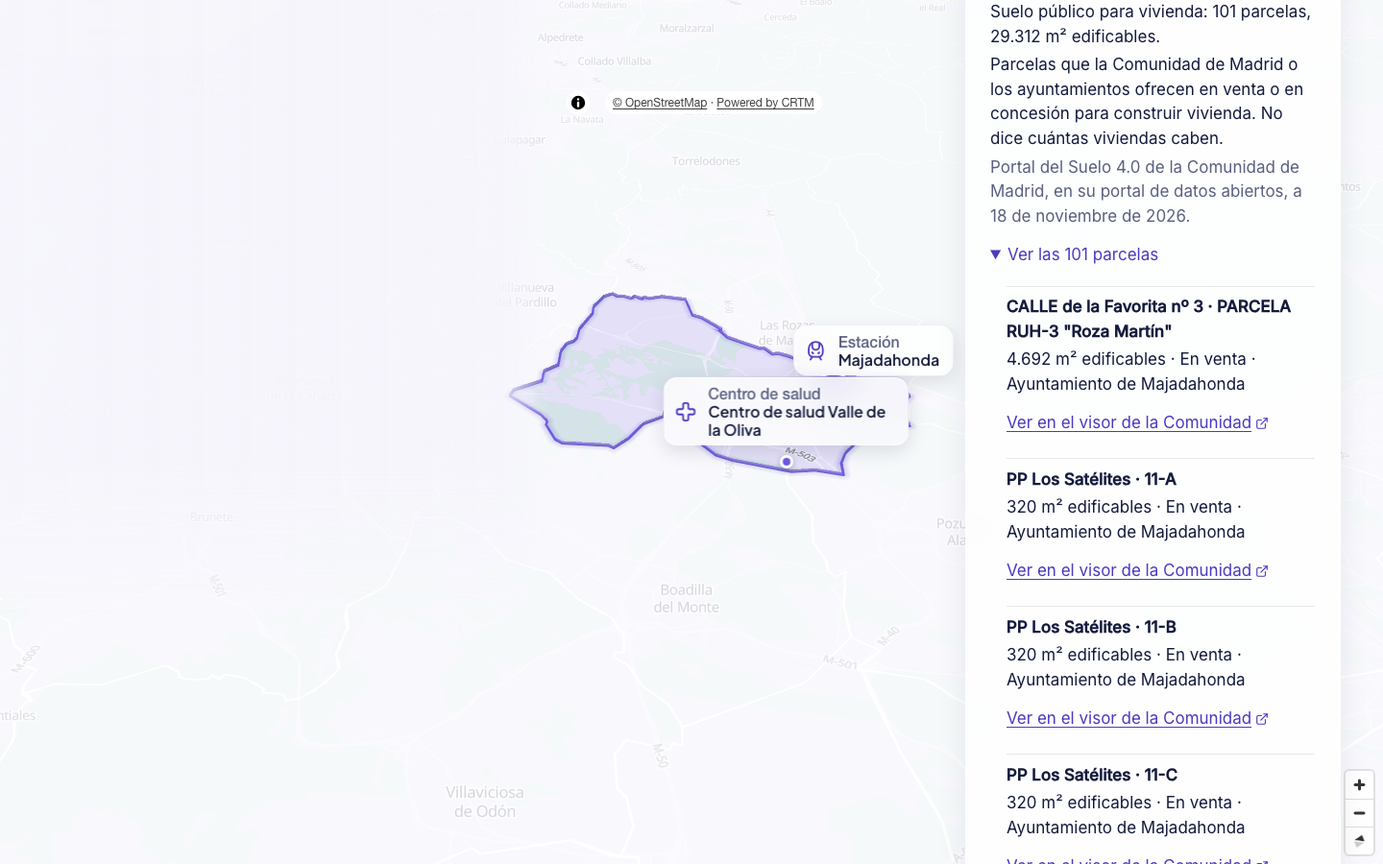
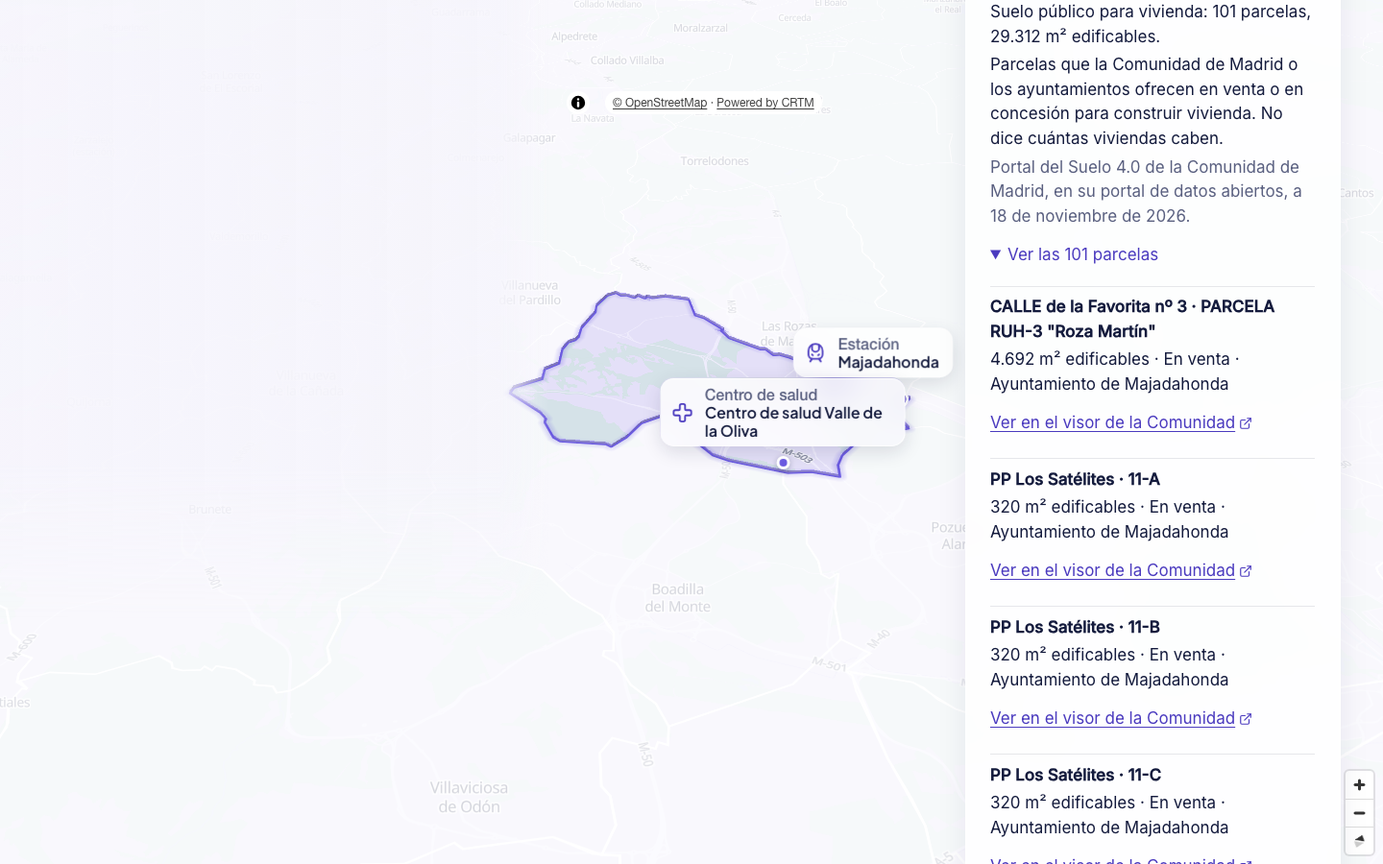
Review of #89: stricter parcel checks, no contact data in the sample, docs and the viewer link
- Pipeline (parser public_land_parcels-1.1.0): the other main uses of the file are declared
  (T, I, O, C, counted) and any other use code is quarantined, so a new code never drops a
  parcel in silence; a buildable surface with a dot («12.192») is quarantined instead of read as
  12.192 m²; a viewer link off https://idem.comunidad.madrid/ is quarantined. The real file of
  18 Nov passes as before (291 parcels, 331 feature rows).
- The test sample leaves contacto_direccion empty (names, phones and emails of people); the
  pipeline never read it.
- Web: only links to the CM viewer become links; a parcel without location or name is named by
  its reference; «Ver en el visor de la Comunidad» is inline text with its icon after it and the
  list is not indented, so it fits one 44 px line at 390 px.
- README: 36 CM datasets (53 in all) once synced; the public API routes document the feature
  and its four item fields; D-246 and the copy say all this.

Evidence on a new build: captures 56/56, check-ux-mobile at 390 px 0 and 0, axe 0.

diff --git a/apps/web/src/lib/newHousing.ts b/apps/web/src/lib/newHousing.ts
@@ -106,6 +106,7 @@ export const TEXT = {
   landArea: "{m2} m² edificables",
   landAreaMissing: "Superficie edificable sin publicar",
   landViewer: "Ver en el visor de la Comunidad",
+  landReference: "Referencia {ref}",
 } as const;
 
 /** D-246: only the codes whose meaning the Comunidad publishes (V and C); the rest come without a regime. */
@@ -247,15 +248,19 @@ function areaLines(zone: NewHousingZone, rows: readonly FeatureValueRow[]): NewH
 const parcelsInWords = (n: number) => (n === 1 ? "1 parcela" : `${count(n)} parcelas`);
 const m2 = (value: number) => count(Math.round(value));
 
+/** Only links to the Comunidad's map viewer become links (the pipeline quarantines any other, D-246). */
+export const VIEWER_PREFIX = "https://idem.comunidad.madrid/";
+
 function landParcel(item: ContextItem, i: number): LandParcel {
-  const place = [item.name, item.parcel].filter(Boolean).join(" · ") || TEXT.landViewer;
+  // Without a location or a parcel name, its reference in the portal; never the link's text
+  const place = [item.name, item.parcel].filter(Boolean).join(" · ") || TEXT.landReference.replace("{ref}", item.code ?? String(i + 1));
   return {
     key: item.code ?? String(i),
     place,
     area: item.value == null ? TEXT.landAreaMissing : TEXT.landArea.replace("{m2}", m2(item.value)),
     regime: item.regime ? (REGIMES[item.regime] ?? null) : null,
     manager: item.manager ?? null,
-    url: item.url ?? null,
+    url: item.url?.startsWith(VIEWER_PREFIX) ? item.url : null,
   };
 }
 

diff --git a/apps/web/src/lib/__tests__/newHousing.test.ts b/apps/web/src/lib/__tests__/newHousing.test.ts
@@ -203,6 +203,14 @@ describe("landLine (zona.vivienda_nueva.suelo, D-246)", () => {
     expect(line?.parcels?.items[0]?.regime).toBe("En venta");
   });
 
+  it("names a parcel without location or parcel name by its reference, and links only to the Comunidad's viewer", () => {
+    const odd = [row("28080", 100, "2026-11-18", { items: [{ code: "08000001Y", value: 60, url: "https://example.com/visor" }, { code: "08000002Y", value: 40, url: VIEWER }] })];
+    const [first, second] = landLine({ level: "municipio", code: "28080" }, odd)?.parcels?.items ?? [];
+    expect(first?.place).toBe("Referencia 08000001Y");
+    expect(first?.url).toBeNull();
+    expect(second?.url).toBe(VIEWER);
+  });
+
   it("goes last, after what is coming, and never with alarm or ranking words", () => {
     const lines = newHousingLines({ level: "distrito", code: "2807919" }, { ...rows, planVive: planViveDistricts, land });
     expect(lines.at(-1)?.key).toBe("land");

diff --git a/apps/web/src/components/zone/NewHousing.module.css b/apps/web/src/components/zone/NewHousing.module.css
@@ -48,11 +48,12 @@
   cursor: pointer;
 }
 
+/* Not indented: the whole width for «Ver en el visor de la Comunidad» on a phone */
 .parcels ul {
   display: grid;
   gap: var(--space-3);
   margin: 0;
-  padding: 0 0 0 var(--space-4);
+  padding: 0;
   list-style: none;
 }
 
@@ -67,11 +68,16 @@
   font-weight: 600;
 }
 
+/* Inline text with its icon after the last word (never apart if it wraps); the padding makes
+   one line a 44 px target */
 .parcels a {
-  display: inline-flex;
-  gap: var(--space-1);
-  align-items: center;
+  display: inline-block;
   justify-self: start;
-  min-height: var(--target);
+  padding-block: calc((var(--target) - 1.5em) / 2);
   color: var(--violet-strong);
+}
+
+.parcels a svg {
+  margin-left: var(--space-1);
+  vertical-align: -2px;
 }

diff --git a/packages/contracts/src/hi_contracts/catalog/pipeline.py b/packages/contracts/src/hi_contracts/catalog/pipeline.py
@@ -842,7 +842,9 @@ class PublicLandParcelsPipeline(BaseModel):
     public parcel offered by the CM or a member Ayuntamiento, with its municipio code inside the
     province, its main use, its buildable surface and the link to the CM map viewer.
 
-    Only the parcels whose main use is in `uses` are kept. Each one becomes an observation of
+    Only the parcels whose main use is in `uses` are kept; those of `other_uses` are counted.
+    A use in neither is quarantined, so a new code never makes a parcel vanish in silence. Each
+    kept parcel becomes an observation of
     `metric_id` in its municipio (`28` + the 3-digit code; the name must be the geography's), its
     buildable m² as the value. The parcels of `split_municipio_ine` (Madrid) are also placed in
     their district and barrio: the CSV has no coordinates, so a versioned table of points inside
@@ -853,7 +855,10 @@ class PublicLandParcelsPipeline(BaseModel):
     Codes are shown only with a meaning the CM publishes: `regimes` and `urbanization` map
     those codes to a slug. The codes the CM uses without publishing what they mean are declared
     in `undocumented_*` and kept without a label; any other code is quarantined, so a new one is
-    read by a person before it is shown.
+    read by a person before it is shown. The viewer link must start with `viewer_prefix` (the
+    CM's map viewer) or the parcel is quarantined: the web turns it into a link. The buildable
+    surface uses a decimal comma; a dot (a thousands separator or a decimal point) is
+    quarantined, never read as another number.
     """
 
     model_config = ConfigDict(extra="forbid")
@@ -865,6 +870,8 @@ class PublicLandParcelsPipeline(BaseModel):
     metric_id: str = Field(pattern=METRIC_ID_PATTERN)
     province_ine: str = Field(default="28", pattern=r"^\d{2}$")
     uses: list[str] = Field(min_length=1, description="uso_principal_codigo values kept")
+    other_uses: list[str] = Field(default_factory=list[str], description="known, not kept")
+    viewer_prefix: str = Field(pattern=r"^https://[a-z0-9.\-]+/$")
     split_municipio_ine: str = Field(pattern=r"^28\d{3}$")
     points: str = Field(pattern=r"^[a-z0-9_]+\.yaml$", description="file in data/catalog/manual")
     regimes: dict[str, Annotated[str, Field(pattern=CODE_SLUG)]] = Field(min_length=1)
@@ -880,11 +887,12 @@ class PublicLandParcelsPipeline(BaseModel):
             msg = f"{self.dataset_id}: max_rows must be >= min_rows"
             raise ValueError(msg)
         for known, unknown in (
+            (set(self.uses), self.other_uses),
             (self.regimes, self.undocumented_regimes),
             (self.urbanization, self.undocumented_urbanization),
         ):
             if set(known) & set(unknown):
-                msg = f"{self.dataset_id}: a code is either documented or not"
+                msg = f"{self.dataset_id}: a code is declared once (kept or not, explained or not)"
                 raise ValueError(msg)
         return self
 

diff --git a/services/ingestion/src/hi_ingestion/pipelines/zone_context/parcels.py b/services/ingestion/src/hi_ingestion/pipelines/zone_context/parcels.py
@@ -90,6 +90,25 @@ def municipio_code(
     return code
 
 
+def viewer_url(row: Mapping[str, Any], spec: PublicLandParcelsPipeline) -> str:
+    """The parcel in the CM's map viewer, or "" without one; any other site is quarantined (the
+    web makes it a link)."""
+    url = clean(row.get(VIEWER))
+    if url and not url.startswith(spec.viewer_prefix):
+        msg = f"viewer link {url[:60]!r} is not on {spec.viewer_prefix}"
+        raise RowError(msg)
+    return url
+
+
+def buildable_m2(raw: str, spec: PublicLandParcelsPipeline) -> tuple[float | None, str | None]:
+    """«13475,8» -> 13475.8 (decimal comma). «12.192» is quarantined: a thousands dot would be
+    read as 12.192 m², and a decimal point cannot be told from it."""
+    if "." in raw:
+        msg = f"buildable surface {raw!r} has a dot (thousands or decimal point): read it"
+        raise RowError(msg)
+    return parse_value(raw, MISSING, spec.csv.decimal)
+
+
 def _dims(row: Mapping[str, Any], spec: PublicLandParcelsPipeline) -> dict[str, str]:
     ref = clean(row.get(REF))
     if not ref:
@@ -103,7 +122,7 @@ def _dims(row: Mapping[str, Any], spec: PublicLandParcelsPipeline) -> dict[str, 
         "parcel": clean(row.get(PARCEL)),
         "regime": regime,
         "manager": clean(row.get(MANAGER)),
-        "url": clean(row.get(VIEWER)),
+        "url": viewer_url(row, spec),
         "stage": stage,
     }
     return {k: v for k, v in dims.items() if v}  # a dimension the parcel does not have is absent
@@ -135,7 +154,7 @@ def _parcel_rows(
     code = municipio_code(row, spec, names)
     dims = _dims(row, spec)
     raw = clean(row.get(BUILDABLE))
-    value, null_reason = parse_value(raw, MISSING, spec.csv.decimal)
+    value, null_reason = buildable_m2(raw, spec)
     return [
         observation(
             metric_id=spec.metric_id,
@@ -164,11 +183,18 @@ def normalize_parcels(
     observed: date,
 ) -> ParcelObservations:
     """`names`: INE code -> the geography's name. `placed`: Madrid's parcels by reference.
-    Parcels of other uses are counted, never quarantined; a repeated reference is."""
+    Parcels of the other declared uses are counted; an undeclared use and a repeated reference
+    are quarantined."""
     records: list[dict[str, Any]] = frame.to_dict("records")  # pyright: ignore[reportAssignmentType]
+    known = {*spec.uses, *spec.other_uses}
     kept = [(i, r) for i, r in enumerate(records) if clean(r.get(USE)) in spec.uses]
     rows: list[dict[str, Any]] = []
-    bad: list[dict[str, Any]] = []
+    bad: list[dict[str, Any]] = [
+        {"source_row": i, "reason": f"use code {clean(r.get(USE))!r} is not declared", "raw": ref}
+        for i, r in enumerate(records)
+        if clean(r.get(USE)) not in known
+        for ref in [clean(r.get(REF))]
+    ]
     seen: set[str] = set()
     for index, row in kept:
         try:

diff --git a/tests/unit/pipelines/test_portal_suelo.py b/tests/unit/pipelines/test_portal_suelo.py
@@ -18,6 +18,8 @@ SPEC = PublicLandParcelsPipeline(
     dataset_id="cm_parcelas_portal_suelo",
     metric_id="suelo_publico_parcela_m2_edificable",
     uses=["R"],
+    other_uses=["T", "I", "O", "C"],
+    viewer_prefix="https://idem.comunidad.madrid/",
     split_municipio_ine="28079",
     points="portal_suelo_madrid_puntos.yaml",
     regimes={"V": "venta", "C": "concesion"},
@@ -90,6 +92,35 @@ def test_texts_are_one_line_and_codes_are_labelled_only_when_the_cm_says_what_th
     assert "regime" not in _dims(result, "3") and "stage" not in _dims(result, "3")
 
 
+def test_an_undeclared_use_is_quarantined_never_dropped_in_silence() -> None:
+    result = _run(
+        _parcel("1"), _parcel("2", uso_principal_codigo="T"), _parcel("3", uso_principal_codigo="Z")
+    )
+    assert list(result.obs.frame["territory_code"]) == ["28080"]
+    assert result.obs.quarantine["reason"].tolist() == ["use code 'Z' is not declared"]
+    assert result.obs.quarantine["raw"].tolist() == ["3"]
+
+
+def test_a_dot_in_the_buildable_surface_is_quarantined_never_another_number() -> None:
+    """«12.192» (thousands dot) would read as 12.192 m²; the file uses a decimal comma."""
+    result = _run(
+        _parcel("1", superficie_edificable="12.192"), _parcel("2", superficie_edificable="12192")
+    )
+    assert result.obs.frame["value"].tolist() == [12192.0]
+    assert "has a dot" in result.obs.quarantine["reason"].iloc[0]
+
+
+def test_only_links_to_the_cm_viewer_are_kept() -> None:
+    """The web makes a link of it: another site is quarantined; no link is no dimension."""
+    result = _run(
+        _parcel("1", url_visor="https://example.com/idem.comunidad.madrid/"),
+        _parcel("2", url_visor="javascript:alert(1)"),
+        _parcel("3", url_visor=""),
+    )
+    assert len(result.obs.quarantine) == 2
+    assert "url" not in _dims(result, "3")
+
+
 def test_a_code_nobody_declared_is_quarantined() -> None:
     result = _run(_parcel("1", regimen_codigo="X"))
     assert result.obs.frame.empty
@@ -156,6 +187,8 @@ def test_a_code_is_documented_or_not() -> None:
         PublicLandParcelsPipeline.model_validate(
             SPEC.model_dump() | {"undocumented_regimes": ["V"]}
         )
+    with pytest.raises(ValidationError):
+        PublicLandParcelsPipeline.model_validate(SPEC.model_dump() | {"other_uses": ["R", "T"]})
 
 
 def _points(**changes: Any) -> dict[str, Any]:

diff --git a/services/ingestion/src/hi_ingestion/pipelines/zone_context/run.py b/services/ingestion/src/hi_ingestion/pipelines/zone_context/run.py
@@ -51,7 +51,8 @@ from hi_ingestion.pipelines.zone_context.parcels import (
 )
 
 PARSER_VERSION = "zone_context-1.1.0"
-PARCELS_PARSER_VERSION = "public_land_parcels-1.0.0"  # D-246
+# D-246; 1.1: undeclared uses, links off the CM viewer and dotted surfaces are quarantined
+PARCELS_PARSER_VERSION = "public_land_parcels-1.1.0"
 MANUAL_DIR = REPO_ROOT / "data" / "catalog" / "manual"
 
 

diff --git a/docs/04_technical_architecture/31_public_api_routes.md b/docs/04_technical_architecture/31_public_api_routes.md
@@ -33,7 +33,7 @@ Contratos v2 del 11 nov 2026 (D-207, línea A), del producto «Vida Fácil». Lo
 | `POST /api/v1/search/barrios` | `{scenario, distrito}`: el mismo `ScenarioState` y el código INE de un distrito de Madrid (`28079` + 2 cifras; otro formato → 422, un distrito que no existe → 404 `NOT_FOUND`) | `BarrioSearchResponse` | **Desde el 12 nov (D-232, `fit-0.7`).** Los barrios de ese distrito (de 3 a 9) con el mismo motor que `/search`: mismas condiciones, % de encaje, hechos, `near_misses` y Reality Check, con barrios como zonas y `distrito` con el `ZoneRef` del distrito. Cada barrio trae sus minutos a pie (mediana de sus calles), su alquiler (los códigos postales de sus lugares, confidence 0,6 como máximo y 0,3 con menos de 5 lugares con alquiler publicado; sin él, `UNKNOWN` con el motivo en llano) y su trayecto (la mediana de sus secciones). Si un barrio no tiene trayecto propio usa el del distrito con confidence × 0,8 como preferencia, el hecho lo dice («… (trayecto medido para todo el distrito, no solo para este barrio)») y `warnings` lo cuenta; con un límite de minutos esa condición sale `UNKNOWN`. `gap_highlights` va vacío: «Qué falta» sigue por distrito. Ejemplo real: `data/fixtures/contracts/barrio_search_result.san_blas.fixture.json` |
 | `GET /api/v1/datasets?cm_only=true` | `cm_only` (opcional) | `DatasetListResponse`: `total`, `cm_open_data_count` y los `DatasetRef` con versión | **Funciona desde el 11 nov**. Lista los datasets con una versión válida (QA superado): hoy 22, de los que 21 son CM. **Desde el 12 nov cada `DatasetRef` (también en `/gaps` y `/search`) trae `attribution_text`**: el texto que pide la licencia de su fuente (catálogo de fuentes), con la fecha de actualización en el Ministerio de Sanidad y, si el dataset tiene lugares geocodificados (D-216), la cita de CartoCiudad |
 | `GET /api/v1/geo/admin-units?level=&parent=` | `level` · `parent` (opcional): `admin_unit_id` del padre directo (`?level=distrito&parent=ES.28.MUN.28079` → los 21 distritos de Madrid) · `simplify_m` | geometrías GeoJSON | Existe. **Desde el 11 nov,** `properties.name` viene legible («Las Rozas de Madrid»), como `ZoneRef.name`, y se puede filtrar por padre. El padre de una sección es su barrio o, si no tiene, su distrito. Un padre sin hijos devuelve una lista vacía con aviso en `warnings` |
-| `GET /api/v1/features`, `GET /api/v1/features/{id}/values?level=` | — | catálogo y valores de features | Existe. **Seguridad como contexto (DATA-020, D-226):** `seguridad_percibida_noche` y `seguridad_percibida_dia` traen la valoración de 0 a 10 que hacen los vecinos de la seguridad de su barrio (Encuesta de calidad de vida del Ayuntamiento, 2025, unas 400 personas por distrito). Con `level=distrito` salen los 21 distritos (confidence 0,9); con `level=municipio`, Madrid (28079, la referencia: 6,4 de noche y 7,8 de día) y los otros 178 municipios con `value: null` y `null_reason: SOURCE_MISSING`. Tome el `period_start` más reciente. No puntúan ni entran en «Qué falta». Se muestran como «así valoran sus vecinos la seguridad de su barrio», con la media de Madrid, el año y la fuente (`ayto_panel_indicadores_distritos_barrios`), sin colores de alarma ni etiquetas. **Vivienda nueva y lo que viene (D-241, aditivo):** cinco features de contexto que no puntúan, y un campo opcional `detail` en las filas que lo guardan (las demás no lo traen): `compraventas_obra_nueva_pct` (municipio; `detail`: `numerator` y `denominator`, las compraventas nuevas y todas de los 4 últimos trimestres, `period_end` y `provisional`), `valor_tasado_vivienda_nueva_m2` y `valor_tasado_vivienda_usada_m2` (municipio), `plan_vive_viviendas` (municipio y distrito; `detail.items`: cada entrada del Plan Vive con `name` = su ubicación, `stage` = su fase tal como la escribe la página, `value` = viviendas y, si la hay, `note`) y `ambitos_residenciales_en_desarrollo` (distrito; `detail.items`: cada ámbito con `code`, `name`, `stage` = `obras`, `tramitacion` o `sin_empezar` y `value` = m²). Una zona sin entradas tiene `value: 0` e `items: []`: es un 0 confirmado, no un hueco **Entorno (D-237):** `pct_calle_ruido_dia` y `pct_calle_ruido_noche` (% de calle residencial por encima de 65 dB Ld y 55 dB Ln, leída cada 10 m; solo Madrid capital por `municipio`, `distrito` y `barrio`, el resto `SOURCE_NO_COVERAGE`), `no2_media_anual` (µg/m³ de 2025; cada fila trae `detail` con `station`, `station_code`, `own`, `distance_km` y `traffic`, en el mismo `FeatureValueDetail` que D-241) y `min_a_pie_aparcamiento_publico` (minutos). No puntúan |
+| `GET /api/v1/features`, `GET /api/v1/features/{id}/values?level=` | — | catálogo y valores de features | Existe. **Seguridad como contexto (DATA-020, D-226):** `seguridad_percibida_noche` y `seguridad_percibida_dia` traen la valoración de 0 a 10 que hacen los vecinos de la seguridad de su barrio (Encuesta de calidad de vida del Ayuntamiento, 2025, unas 400 personas por distrito). Con `level=distrito` salen los 21 distritos (confidence 0,9); con `level=municipio`, Madrid (28079, la referencia: 6,4 de noche y 7,8 de día) y los otros 178 municipios con `value: null` y `null_reason: SOURCE_MISSING`. Tome el `period_start` más reciente. No puntúan ni entran en «Qué falta». Se muestran como «así valoran sus vecinos la seguridad de su barrio», con la media de Madrid, el año y la fuente (`ayto_panel_indicadores_distritos_barrios`), sin colores de alarma ni etiquetas. **Vivienda nueva y lo que viene (D-241, aditivo):** cinco features de contexto que no puntúan, y un campo opcional `detail` en las filas que lo guardan (las demás no lo traen): `compraventas_obra_nueva_pct` (municipio; `detail`: `numerator` y `denominator`, las compraventas nuevas y todas de los 4 últimos trimestres, `period_end` y `provisional`), `valor_tasado_vivienda_nueva_m2` y `valor_tasado_vivienda_usada_m2` (municipio), `plan_vive_viviendas` (municipio y distrito; `detail.items`: cada entrada del Plan Vive con `name` = su ubicación, `stage` = su fase tal como la escribe la página, `value` = viviendas y, si la hay, `note`) y `ambitos_residenciales_en_desarrollo` (distrito; `detail.items`: cada ámbito con `code`, `name`, `stage` = `obras`, `tramitacion` o `sin_empezar` y `value` = m²). Una zona sin entradas tiene `value: 0` e `items: []`: es un 0 confirmado, no un hueco. **Suelo público para vivienda (D-246, aditivo):** `suelo_publico_vivienda_m2` (`municipio`, y en Madrid capital `distrito` y `barrio`): el valor es la suma de los m² edificables de las parcelas residenciales que ofrece el Portal del Suelo 4.0 de la CM, y `detail.items` son esas parcelas, de mayor a menor (su número es el de parcelas), con `code` (referencia del portal), `name` (localización), `stage` (`urbanizado` o `sin_urbanizar`; ausente si la CM no explica el código), `value` (m² edificables; `null` si no se publican) y cuatro campos que solo traen ellas: `parcel` (la parcela como la nombra el portal), `regime` (`venta` o `concesion`; ausente si la CM no explica el código), `manager` (quién la ofrece) y `url` (la parcela en el visor de la CM, siempre bajo `https://idem.comunidad.madrid/`). Si una parcela no publica su superficie, el valor de la zona es `null` (`UNKNOWN`), nunca una suma más corta; una zona sin parcelas tiene `value: 0` e `items: []`. Los m² no se pasan a viviendas. No puntúa **Entorno (D-237):** `pct_calle_ruido_dia` y `pct_calle_ruido_noche` (% de calle residencial por encima de 65 dB Ld y 55 dB Ln, leída cada 10 m; solo Madrid capital por `municipio`, `distrito` y `barrio`, el resto `SOURCE_NO_COVERAGE`), `no2_media_anual` (µg/m³ de 2025; cada fila trae `detail` con `station`, `station_code`, `own`, `distance_km` y `traffic`, en el mismo `FeatureValueDetail` que D-241) y `min_a_pie_aparcamiento_publico` (minutos). No puntúan |
 | `GET /api/v1/places?category=&admin_unit_id=&subcategory=` | `category` (obligatoria; desde el 12 nov admite varias, separadas por comas o repetidas: `?category=education,health,pharmacy`, una sola petición por vista de zona; una desconocida → 422) · `admin_unit_id` (opcional): un municipio, distrito o sección (`ES.28.DIS.2807905`) · `subcategory` (opcional, repetible: `?subcategory=metro&subcategory=cercanias`; algunas subcategorías llevan comas, por eso no se separan por comas) | equipamientos como puntos GeoJSON | **Filtros desde el 11 nov.** Un lugar está en la zona en la que lo cuentan los features: su municipio, o el distrito o la sección de la sección censal en la que cae. Barrio u otro nivel → 422 `OUT_OF_COVERAGE`; unidad desconocida → 404. **Paginada:** 5.000 lugares por página (unos 1,4 MB; Vercel responde 4,5 MB como máximo), con `?page=` (desde 1) y `data.total`, `data.page` y `data.pages`. Si quedan páginas, `warnings` dice cómo pedir la siguiente o filtrar; una página fuera de rango → 422. Hoy solo transporte (14.982) pasa de una página; la web debería pedirlo siempre filtrado. **Contrato `places-1` desde el 12 nov** (`PlacesResponse`, `data/schemas/api/places_response.schema.json`, D-216): cada punto trae `ownership` (`publica`, `concertada` o `privada`, solo en centros educativos), `gap_rows` (filas de la lista de lo que falta que lo cuentan, con los filtros del catálogo), `capacity` (`{value, unit, dataset_id}` cuando la fuente la publica por centro; si no, `null`), `coordinates` (`source` o `geocoded`) y `confidence`. Las farmacias son `category=pharmacy`, ya no `health`. **Hospitales con nombre y camas (D-218, aditivo):** los hospitales cruzados con el Catálogo Nacional de Hospitales traen su nombre institucional en `name` y en `capacity` las camas instaladas (`unit: "camas instaladas"`, `dataset_id: ms_catalogo_nacional_hospitales`) más dos campos opcionales: `dependency` (`publica` o `privada`, del registro de la CM; las mutuas cuentan como privadas) y `kind` (el tipo del registro, p. ej. «Hospital general»). Los que no se cruzan conservan «Hospital general (Municipio)» y `capacity: null`. Los centros de salud y consultorios cruzados con el Catálogo de Centros de Atención Primaria traen su nombre («Centro de salud Las Calesas», «Consultorio local La Acebeda»); sin capacidad, porque nadie la publica por centro. Ejemplo: `data/fixtures/contracts/places.hospitales_madrid.fixture.json` **Aparcamientos (D-237, aditivo):** `category=other` con las subcategorías «Aparcamiento disuasorio», «Aparcamiento público», «Aparcamiento mixto» y «Aparcamiento para residentes». Los disuasorios del CRTM traen sus plazas en `capacity` (`unit: "plazas"`) y `access_fee` (`free`, `paid` o `mixed`). En `other` están también las estaciones de calidad del aire («Estación de calidad del aire»): pídase siempre con `subcategory` |
 
 ## Reglas que la web puede dar por hechas

diff --git a/docs/00_index/01_decisions_log.md b/docs/00_index/01_decisions_log.md
@@ -2052,11 +2052,11 @@ Idea de producto de Mariano, aprobada por él: además de decir **dónde vivir**
    - `clase_codigo`: **URB** «Suelo urbano»; **SEC** «Suelo urbanizable sectorizado». No se usa.
    - `urbanizacion_codigo`: **U** «Urbanizado»; **P** «Pendiente urbanización / no urbanizado». Una parcela trae «p» en minúscula, sin descripción: no se etiqueta. Va en la API (`stage`), no en pantalla.
    - `uso_principal_codigo`: **R** «Residencial» (también T Terciario, I Industrial, C Comercial, O Otros).
-   El pipeline declara los códigos explicados (`regimes`, `urbanization`) y los que la Comunidad usa sin explicar (`undocumented_*`). Cualquier otro código va a cuarentena y bloquea la carga: un código nuevo lo lee una persona antes de enseñarse.
+   El pipeline declara los códigos explicados (`regimes`, `urbanization`), los que la Comunidad usa sin explicar (`undocumented_*`) y los usos que no se cargan (`other_uses`: T, I, O y C). Cualquier otro código, también de uso, va a cuarentena y bloquea la carga: un código nuevo lo lee una persona antes de enseñarse, y ninguna parcela desaparece sin aviso. También van a cuarentena un enlace al visor que no empiece por `https://idem.comunidad.madrid/` (la web lo convierte en enlace, y además lo vuelve a comprobar) y una superficie con punto («12.192»): el fichero usa coma decimal, y un punto de miles se leería como 12,192 m². La muestra de los tests deja vacía la columna `contacto_direccion` (nombres, teléfonos y correos de personas), que el pipeline no lee.
 4. **Madrid capital por distrito y barrio.** El CSV no trae coordenadas. Se usa la geometría de la propia capa de la Comunidad (preferida a las coordenadas del Catastro por referencia catastral, que no hizo falta pedir): `scripts/portal_suelo_points.py` lee el WFS una vez y guarda, para cada parcela de Madrid (50, de todos los usos), un punto **dentro** de su polígono (`representative_point`, nunca el centroide, que puede caer fuera), redondeado al metro y comprobado, en EPSG:25830. El fichero versionado `data/catalog/manual/portal_suelo_madrid_puntos.yaml` lleva la URL de la petición y la fecha de lectura; es entrada de la carga (entra en su checksum y su linaje), así que el pipeline funciona sin red (también en el paquete de demo offline). La carga sitúa cada punto en su distrito y su barrio con PostGIS (`ST_Contains` sobre `geo_admin_unit`). Una parcela de Madrid sin punto (añadida al portal después) o con un punto fuera de todo distrito va a cuarentena y **bloquea**: se vuelve a lanzar el script. Ninguno de los 38 polígonos residenciales toca más de un distrito. Resultado, igual al cruce del orquestador: **Vicálvaro 16** (67.808 m², todas en el barrio Casco Histórico de Vicálvaro, 10 de ellas en Los Berrocales), **Hortaleza 9** (Canillas 5, Pinar del Rey 4), **Fuencarral-El Pardo 7** (Peñagrande 6, Fuentelarreina 1), **San Blas-Canillejas 3** (Arcos, Canillejas y El Salvador), **Salamanca 1** (Fuente del Berro: el depósito de Ventas de Metro de Madrid, 32.697 m²), **Moncloa-Aravaca 1** (Valdezarza) y **Villa de Vallecas 1** (Ensanche de Vallecas). En 11 de los 131 barrios.
 5. **Cálculo.** Métrica `suelo_publico_parcela_m2_edificable`: una observación por parcela residencial en su municipio (y en Madrid también en su distrito y su barrio), con sus m² edificables y, como dimensiones, su referencia, localización, parcela, régimen (solo V o C), gestor, enlace al visor y urbanización. Feature `suelo_publico_vivienda_m2` (método `metric_items` de D-241, `value: sum`): el valor es la suma de m² edificables y sus `items` son las parcelas, de mayor a menor; **el número de parcelas es el de sus `items`**. `metric_items` pasa a llevar a cada elemento las dimensiones de `item_dims` que tenga (aquí `parcel`, `regime`, `manager` y `url`). Por municipio (179 filas, 29 con parcelas), distrito (21) y barrio (131). **No se convierten los m² en viviendas:** el fichero no dice cuántas caben y no se inventa un ratio.
 6. **API (aditivo).** `ContextItem` suma `parcel`, `regime` (`venta` | `concesion`), `manager` y `url`, que solo salen en los elementos que los tienen (`exclude_if`): las respuestas de Plan Vive y VEDA no cambian (test). El código desplegado antes no los conoce: con los datos sincronizados y la API anterior, los `items` llegan sin esos campos.
-7. **Web.** En «Vivienda nueva y lo que viene» (pantalla de un municipio o de un distrito de Madrid, dentro de «Más datos de la zona», D-245 §6; nunca en la tarjeta esencial), la última línea: «Suelo público para vivienda: 16 parcelas, 67.808 m² edificables.», con la nota «Parcelas que la Comunidad de Madrid o los ayuntamientos ofrecen en venta o en concesión para construir vivienda. No dice cuántas viviendas caben.» y su fuente y fecha. Debajo, plegada, «Ver las 16 parcelas»: cada una con su localización y parcela, sus m² edificables, el régimen si la Comunidad explica su código, su gestor y «Ver en el visor de la Comunidad» (pestaña nueva). Sin colores de estado ni de alarma; el texto no se dirige al hogar, así que no usa `voice()`. Una zona sin parcelas no enseña nada, ni «0 parcelas». «Cómo lo calculamos» lo cuenta en «Vivienda nueva y lo que viene», y el dataset sale en `/datasets` con su versión (los CM, uno más). Textos en `pitch/textos_web.md` (`zona.vivienda_nueva.suelo*`).
+7. **Web.** En «Vivienda nueva y lo que viene» (pantalla de un municipio o de un distrito de Madrid, dentro de «Más datos de la zona», D-245 §6; nunca en la tarjeta esencial), la última línea: «Suelo público para vivienda: 16 parcelas, 67.808 m² edificables.», con la nota «Parcelas que la Comunidad de Madrid o los ayuntamientos ofrecen en venta o en concesión para construir vivienda. No dice cuántas viviendas caben.» y su fuente y fecha. Debajo, plegada, «Ver las 16 parcelas»: cada una con su localización y parcela (sin ninguna de las dos, «Referencia» y su código del portal), sus m² edificables, el régimen si la Comunidad explica su código, su gestor y «Ver en el visor de la Comunidad» (pestaña nueva; el icono sigue a la última palabra y, a 390 px, cabe en una línea de 44 px). Sin colores de estado ni de alarma; el texto no se dirige al hogar, así que no usa `voice()`. Una zona sin parcelas no enseña nada, ni «0 parcelas». «Cómo lo calculamos» lo cuenta en «Vivienda nueva y lo que viene», y el dataset sale en `/datasets` con su versión (los CM, uno más). Textos en `pitch/textos_web.md` (`zona.vivienda_nueva.suelo*`).
 8. **Por qué no puntúa.** Una parcela en venta o concesión no es una vivienda que el hogar pueda alquilar o comprar: dice dónde se puede construir, no cuántas viviendas habrá, a qué precio ni cuándo. Por eso no tiene `fit` ni `gap_row` (test de catálogo), no filtra, no ordena y no entra en «Qué falta»; la búsqueda no la lee (`FIT_VALUES` solo trae features con `fit`).
 9. **Invariante del pitch.** Golden 10/10 contra `housing_suelo` (la copia con estas filas), con `ranked_order` y `near_miss_order` del ejemplo. Las 9 búsquedas del golden y la de barrios en los 21 distritos dan la misma respuesta byte a byte con y sin las 331 filas de `suelo_publico_vivienda_m2` (borradas dentro de una transacción que se deshace).
 10. **Orden en producción: desplegar → sincronizar → smoke.** La feature no tiene `fit`, así que sincronizar antes no rompe `/search`, pero la API anterior no sirve los campos nuevos de la lista. **Tras el sync no hay vuelta atrás sin retirar estas filas:** volver a un despliegue anterior con ellas en la base deja en `/datasets` y en el contador del pie un conjunto CM más que la web de entonces no enseña (D-231). Para retirarlas: borrar la fila `suelo_publico_vivienda_m2` de `feature_registry` (las de `feature_value` caen por CASCADE) y la versión de `cm_parcelas_portal_suelo` en `dataset_version`, o volver a sincronizar desde una base sin ellas.

diff --git a/evidence/gate-06/2026-11-18-portal-suelo/portal-suelo.md b/evidence/gate-06/2026-11-18-portal-suelo/portal-suelo.md
@@ -2,7 +2,7 @@
 
 Rama `claude/f8-portal-suelo`. Idea de producto de Mariano: además de «dónde vivir», «dónde construir». Las parcelas residenciales del Portal del Suelo 4.0 (portal de datos abiertos de la Comunidad de Madrid) en «Vivienda nueva y lo que viene» de la pantalla de zona, dentro de «Más datos de la zona». Contexto: no puntúa. Decisión: D-246. Textos: `pitch/textos_web.md` (`zona.vivienda_nueva.suelo*`).
 
-**Cómo se ha medido.** Un `npm ci` y un `npm run build` (el primer intento lo cortó el aviso de seguridad de Next; el segundo terminó con la caché del primero), con `next start` en el 3092 contra la API de la rama en el 8092 sobre `housing_suelo`, una copia completa de `housing` con el dataset cargado y la feature calculada (versión `2026-11-18-b96deb8ff739`).
+**Cómo se ha medido.** Un `npm ci` y un build por entrega (cada vez el aviso de seguridad de Next cortó el primer intento y su reintento terminó con la caché), con `next start` en el 3092 contra la API de la rama en el 8092 sobre `housing_suelo`, una copia completa de `housing` con el dataset cargado y la feature calculada (versión `2026-11-18-b96deb8ff739`).
 
 ## Qué se ve
 
@@ -13,7 +13,7 @@ Rama `claude/f8-portal-suelo`. Idea de producto de Mariano: además de «dónde 
 
 ## Comprobaciones
 
-- `capture-portal-suelo.mjs` (`capturas-portal-suelo.json`): **52/52** a 1440 y 390 px. La línea dice el número de parcelas y los m² de la respuesta de la API para esa zona; fuente y fecha; la lista empieza plegada; un enlace al visor por parcela, en una pestaña nueva; régimen solo para V y C; ningún texto de menos de 16 px ni objetivo de menos de 44 px en la tarjeta con la lista abierta; ningún color de alarma; nada en la tarjeta esencial; **axe 0** con la lista abierta; nada en la zona sin parcelas.
+- `capture-portal-suelo.mjs` (`capturas-portal-suelo.json`): **56/56** a 1440 y 390 px. La línea dice el número de parcelas y los m² de la respuesta de la API para esa zona; fuente y fecha; la lista empieza plegada; un enlace al visor por parcela, en una pestaña nueva y en una sola línea de 44 px o más (47 px a 1440, 50 px a 390), con su icono tras el texto; régimen solo para V y C; ningún texto de menos de 16 px ni objetivo de menos de 44 px en la tarjeta con la lista abierta; ningún color de alarma; nada en la tarjeta esencial; **axe 0** con la lista abierta; nada en la zona sin parcelas.
 - `apps/web/scripts/check-ux-mobile.mjs --widths 390 --counts ""` (`tamanos-portal-suelo.json`): **0 textos de menos de 16 px y 0 objetivos de menos de 44 px** en todas las pantallas del recorrido; los 3 controles del mapa, aparte, como siempre. **axe: 0 incidencias** a 390 y 1440 px.
 - `infra/deploy/e2e/e2e_prod.mjs --base http://localhost:3092`: **escritorio 1440 px 116/116, móvil 390 px 92/92** (`e2e/e2e-report.json`), sin cambios en el e2e ni en `shown_text.mjs`: los textos nuevos son de la web, no de la API.
 
@@ -24,4 +24,8 @@ Rama `claude/f8-portal-suelo`. Idea de producto de Mariano: además de «dónde 
 
 ## Tests
 
-`make lint typecheck test-unit` (Python 1052, vitest 570) y `make test-db` (157) limpios, con ruff, pyright, eslint y tsc.
+`make lint typecheck test-unit` (Python 1056, vitest 579) y `make test-db` (157) limpios, con ruff, pyright, eslint y tsc.
+
+## Revisión del #89 (18 nov, noche)
+
+Sobre la base con el #88 fusionado. La carga pone en cuarentena un uso que no está declarado (R se carga; T, I, O y C se cuentan), un enlace que no es del visor de la Comunidad y una superficie con punto («12.192»); la web solo enlaza al visor y nombra por su referencia una parcela sin localización ni nombre; la muestra de los tests va sin `contacto_direccion`. «Ver en el visor de la Comunidad» deja de partirse en el móvil: la lista no va sangrada y el enlace es texto con su icono detrás. Medido con un build nuevo: capturas 56/56, `check-ux-mobile` a 390 px 0 y 0 y axe 0 (390 y 1440 px). El e2e no se repite: el cambio de la web es de estilo y de un caso sin datos reales (ninguna parcela de hoy cae en él).

diff --git a/pitch/textos_web.md b/pitch/textos_web.md
@@ -660,11 +660,11 @@ Una tarjeta en la vista de zona, debajo de «Otros datos de la zona» (D-235), p
 | `zona.vivienda_nueva.suelo.nota` | Parcelas que la Comunidad de Madrid o los ayuntamientos ofrecen en venta o en concesión para construir vivienda. No dice cuántas viviendas caben. | Debajo de la línea. Con `suelo.sin_m2`, sigue «De alguna parcela no se publica la superficie edificable.» |
 | `zona.vivienda_nueva.suelo.fuente` | Portal del Suelo 4.0 de la Comunidad de Madrid, en su portal de datos abiertos, a {fecha}. | {fecha}: el día de la descarga (el fichero se actualiza a diario y no trae fecha), «a 18 de noviembre de 2026» |
 | `zona.vivienda_nueva.suelo.ver` | Ver las {n} parcelas | Desplegable bajo la fuente, cerrado. Con una: «Ver la parcela» |
-| `zona.vivienda_nueva.suelo.parcela` | {localización} · {parcela} | Tal como las escribe el portal (algunas en mayúsculas), en negrita. Debajo: «{m2} m² edificables · {régimen} · {gestor}», de mayor a menor superficie |
+| `zona.vivienda_nueva.suelo.parcela` | {localización} · {parcela} | Tal como las escribe el portal (algunas en mayúsculas), en negrita. Sin ninguna de las dos, «Referencia {referencia}» (`zona.vivienda_nueva.suelo.referencia`). Debajo: «{m2} m² edificables · {régimen} · {gestor}», de mayor a menor superficie |
 | `zona.vivienda_nueva.suelo.sin_superficie` | Superficie edificable sin publicar | En lugar de «{m2} m² edificables» |
 | `zona.vivienda_nueva.suelo.venta` | En venta | Régimen V. Solo los códigos que la Comunidad explica en su capa de la IDEM: V «Venta» y C «Concesión / derecho de superficie / alquiler». D y A no tienen explicación: la parcela sale sin régimen |
 | `zona.vivienda_nueva.suelo.concesion` | En concesión, derecho de superficie o alquiler | Régimen C |
-| `zona.vivienda_nueva.suelo.visor` | Ver en el visor de la Comunidad | Enlace de cada parcela (`url_visor`, visor del Portal del Suelo en la IDEM), en una pestaña nueva. Para el lector de pantalla sigue «: {localización} · {parcela} (se abre en una pestaña nueva)» |
+| `zona.vivienda_nueva.suelo.visor` | Ver en el visor de la Comunidad | Enlace de cada parcela (`url_visor`, visor del Portal del Suelo en la IDEM), en una pestaña nueva, con su icono tras la última palabra. Solo si empieza por `https://idem.comunidad.madrid/` (la carga pone en cuarentena cualquier otro). Para el lector de pantalla sigue «: {localización} · {parcela} (se abre en una pestaña nueva)» |
 | `zona.vivienda_nueva.no_puntua` | Son datos informativos: no cambian qué zonas te convienen ni su orden. | **Cambia (15 nov, UX móvil 1).** Pie de la tarjeta: es el mismo texto que `zona.contexto.no_puntua` y, con las dos tarjetas, sale una sola vez, bajo la última (15 nov) |
 
 ### Barra de barrios (solo distritos de Madrid)

diff --git a/README.md b/README.md
@@ -12,7 +12,7 @@ Quien busca casa en Madrid mira el precio en una web, los colegios en otra y el 
 
 ## Qué datos usamos
 
-**35 conjuntos de datos del [Portal de Datos Abiertos de la Comunidad de Madrid](https://datos.comunidad.madrid) en la demo, todos con su control de calidad superado (52 contando los de apoyo):**
+**36 conjuntos de datos del [Portal de Datos Abiertos de la Comunidad de Madrid](https://datos.comunidad.madrid) en la demo, todos con su control de calidad superado (53 contando los de apoyo):**
 - población, hogares, vivienda, renta y alquiler;
 - colegios y sus aulas, centros de salud, servicios para mayores y farmacias, y los hospitales y camas de la región;
 - las 6 redes de transporte público del Consorcio Regional de Transportes, que también publica ese portal, y la accesibilidad de las estaciones de metro, Metro Ligero y Cercanías.
